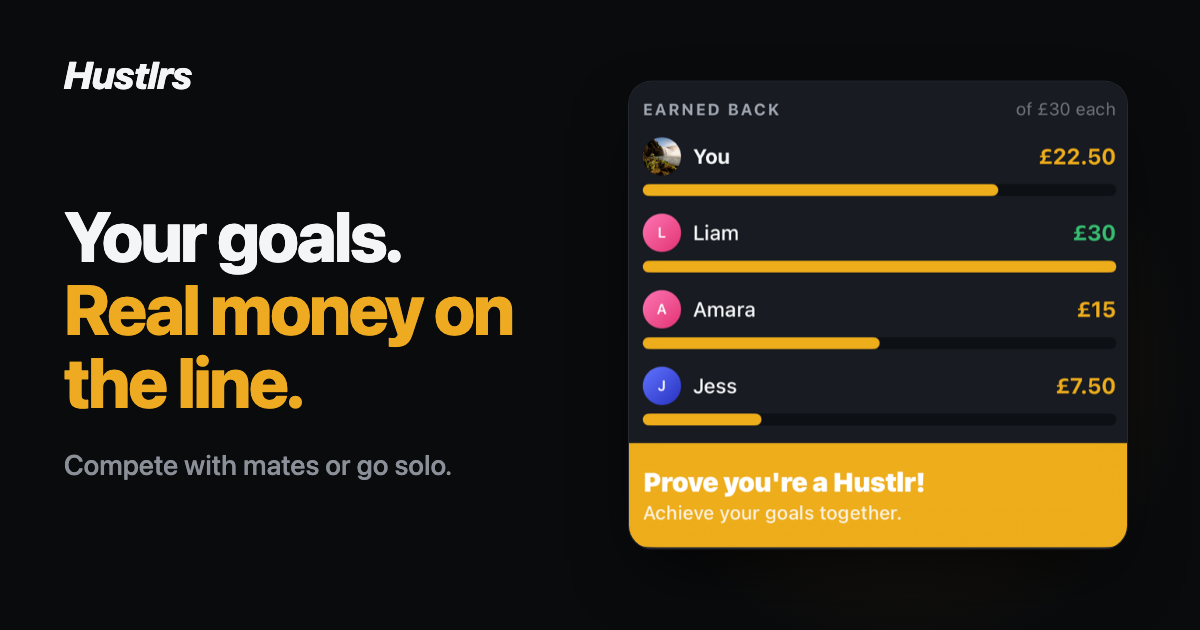
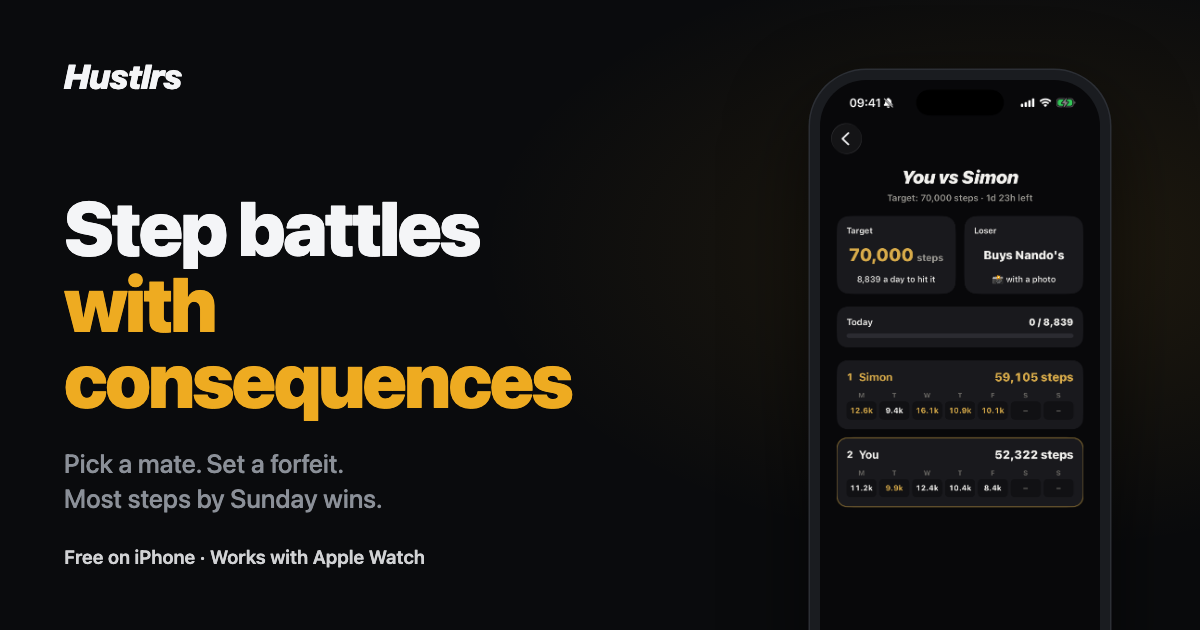
Share image: free app, Step battles with consequences (was the old money version)
Claude-Session: https://claude.ai/code/session_01FiZPvpkTZdwvwisTiJ46Nk

diff --git a/index.html b/index.html
@@ -9,14 +9,14 @@
   <meta property="og:description" content="Weekly 1v1 step challenges with your mates. Most steps wins. The loser buys the Nando's.">
   <meta property="og:url" content="https://hustlrs.co">
   <meta property="og:type" content="website">
-  <meta property="og:image" content="https://hustlrs.co/img/og-image.png?v=14">
+  <meta property="og:image" content="https://hustlrs.co/img/og-image.png?v=15">
   <meta property="og:image:width" content="1200">
   <meta property="og:image:height" content="630">
   <meta property="og:image:alt" content="Hustlrs. Step battles with consequences">
   <meta name="twitter:card" content="summary_large_image">
   <meta name="twitter:title" content="Hustlrs | Step battles with consequences">
   <meta name="twitter:description" content="Weekly 1v1 step challenges with your mates. Most steps wins. The loser buys the Nando's.">
-  <meta name="twitter:image" content="https://hustlrs.co/img/og-image.png?v=14">
+  <meta name="twitter:image" content="https://hustlrs.co/img/og-image.png?v=15">
   <link rel="icon" href="/favicon.ico?v=4" sizes="any">
   <link rel="icon" type="image/png" sizes="32x32" href="/img/favicon-32.png?v=2">
   <link rel="apple-touch-icon" href="/img/apple-touch-icon.png?v=2">
